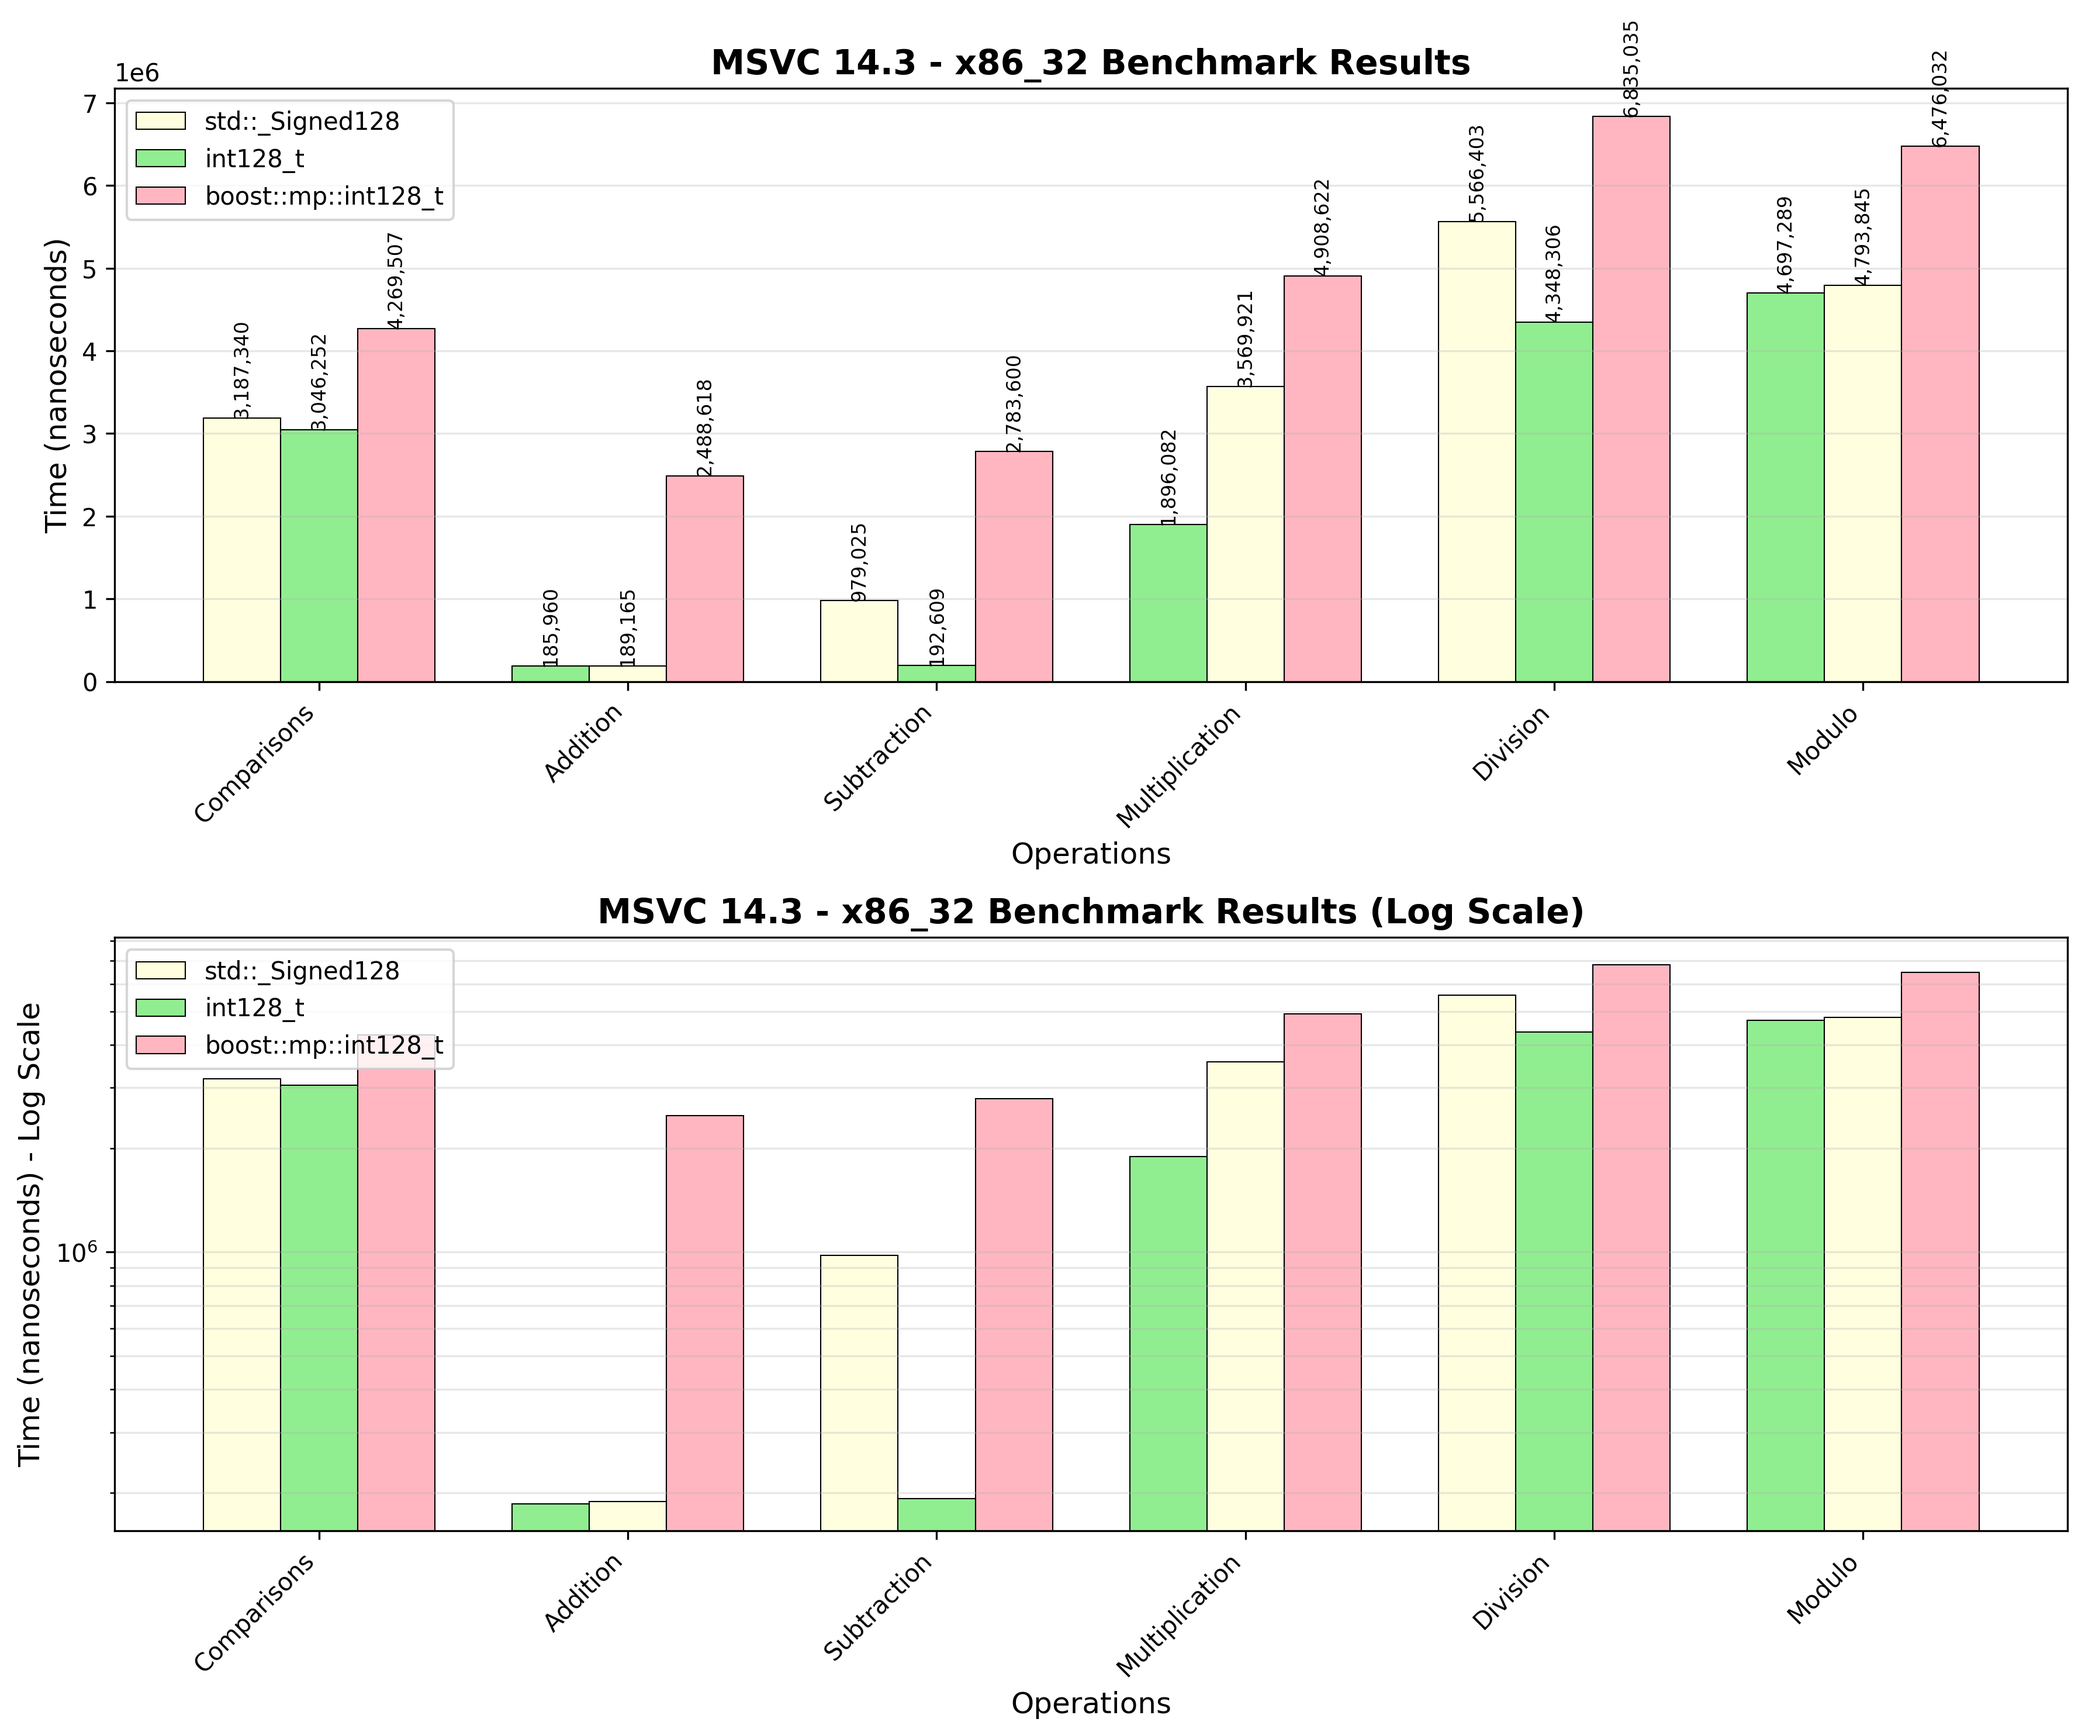
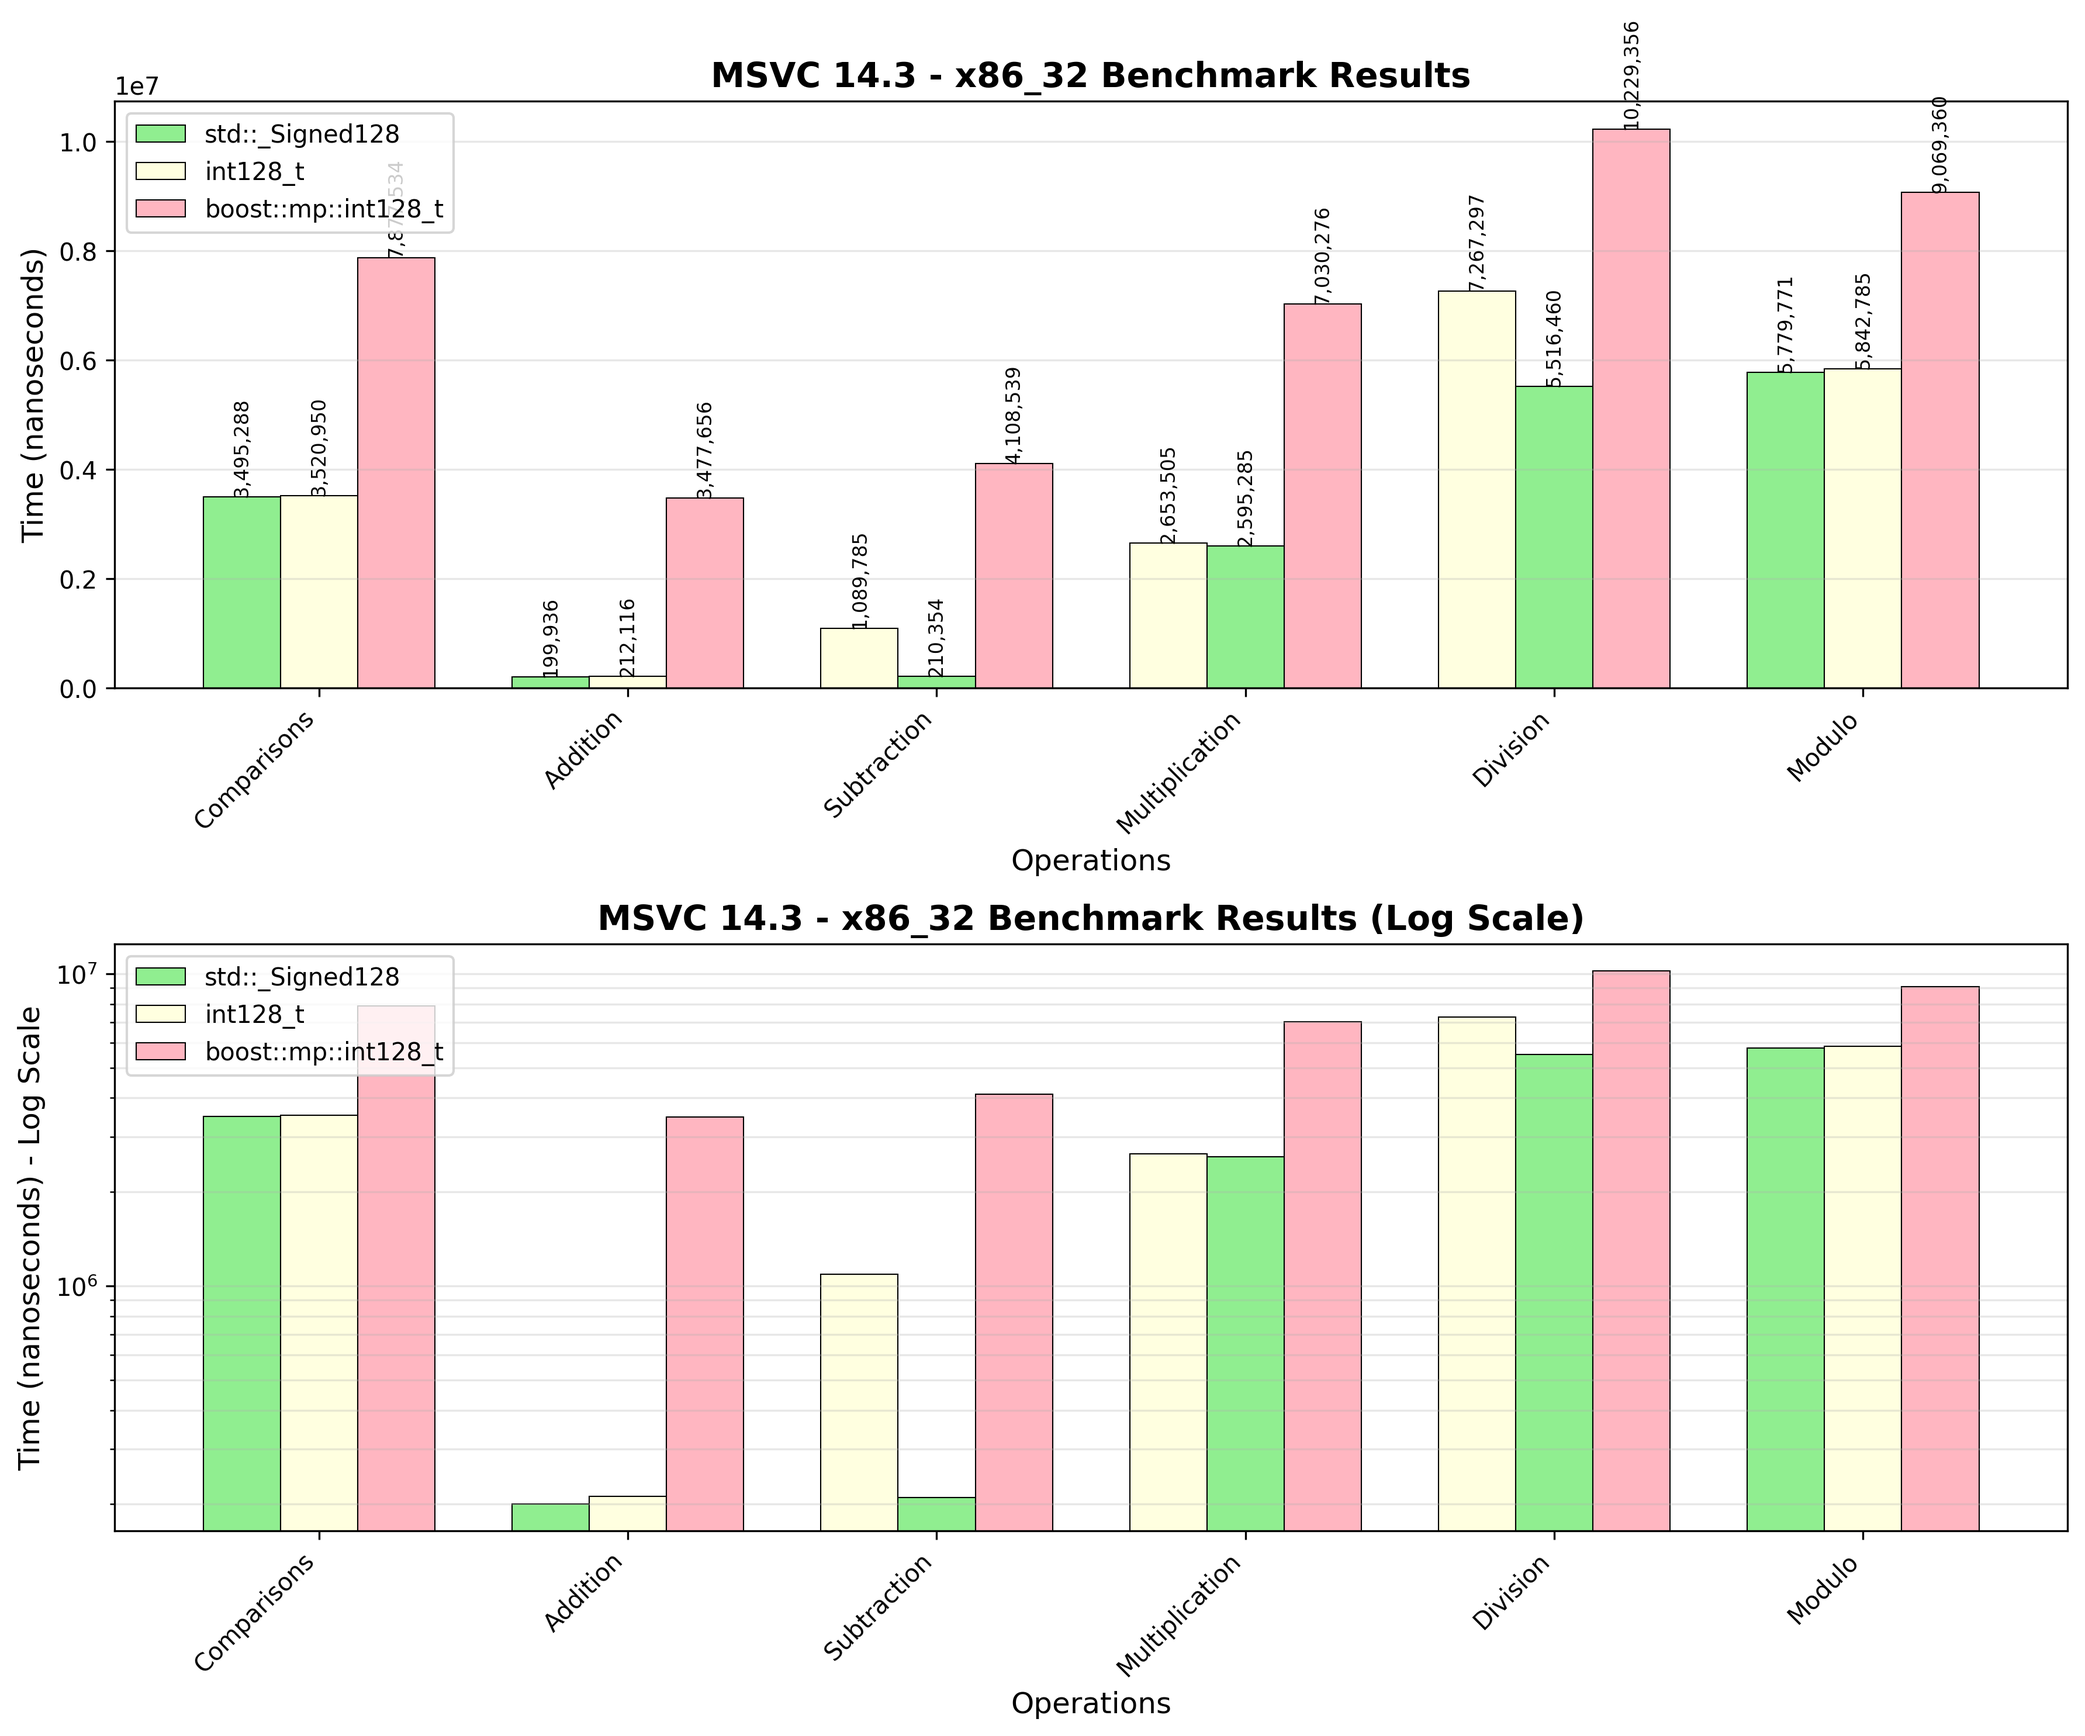
Update plots with new data

diff --git a/doc/signed_plots.py b/doc/signed_plots.py
@@ -79,9 +79,9 @@ data = {
 # MSVC 14.3 - x86
 data = {
     'Operation': ['Comparisons', 'Addition', 'Subtraction', 'Multiplication', 'Division', 'Modulo'],
-    'std::_Signed128': [3187340, 185960, 979025, 1896082, 5566403, 4697289],
-    'int128_t': [3046252, 189165, 192609, 3569921, 4348306, 4793845],
-    'boost::mp::int128_t': [4269507, 2488618, 2783600, 4908622, 6835035, 6476032]
+    'std::_Signed128': [3495288, 199936, 1089785, 2653505, 7267297, 5779771],
+    'int128_t': [3520950, 212116, 210354, 2595285, 5516460, 5842785],
+    'boost::mp::int128_t': [7877534, 3477656, 4108539, 7030276, 10229356, 9069360]
 }
 
 df = pd.DataFrame(data)
